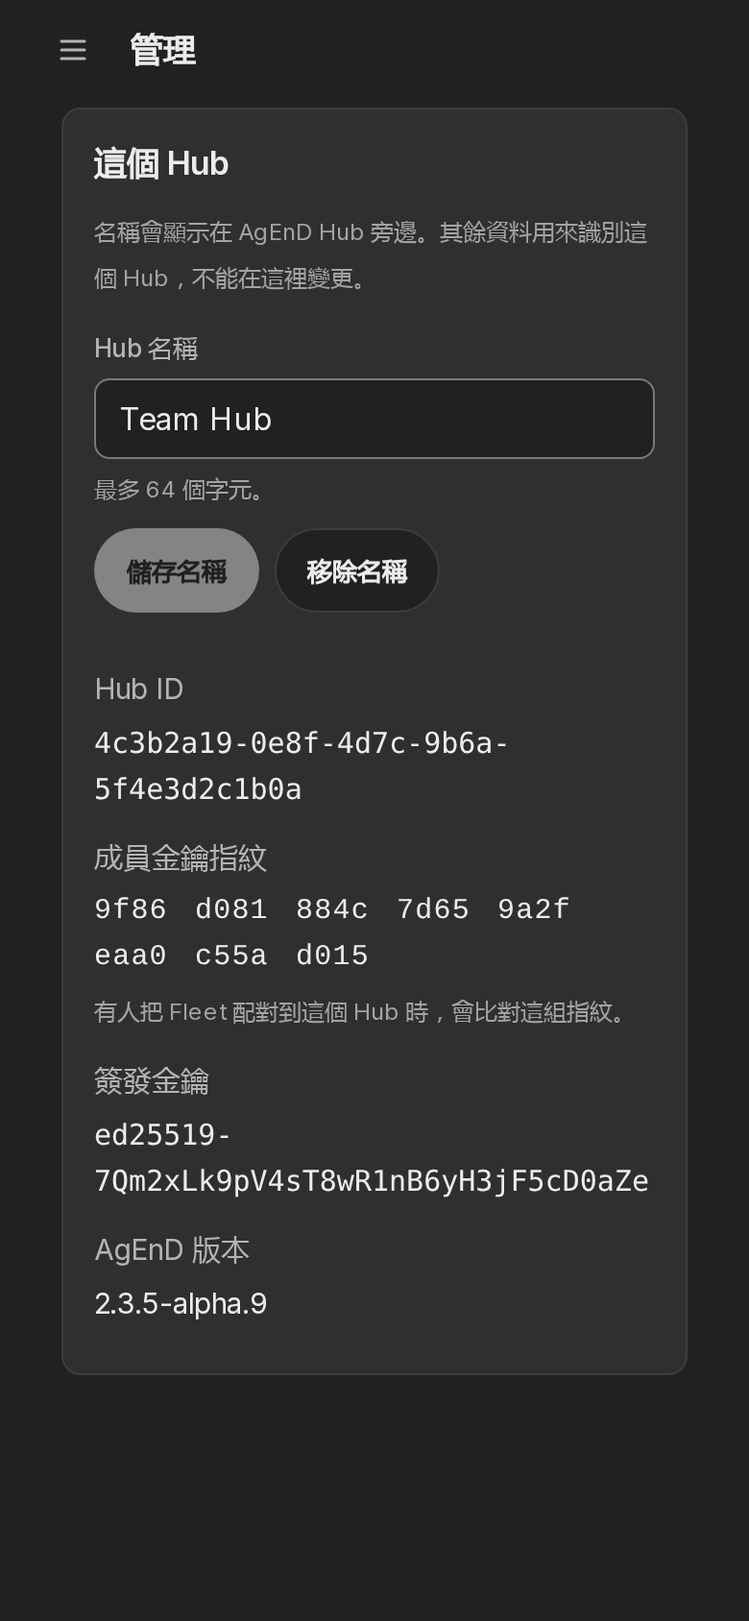
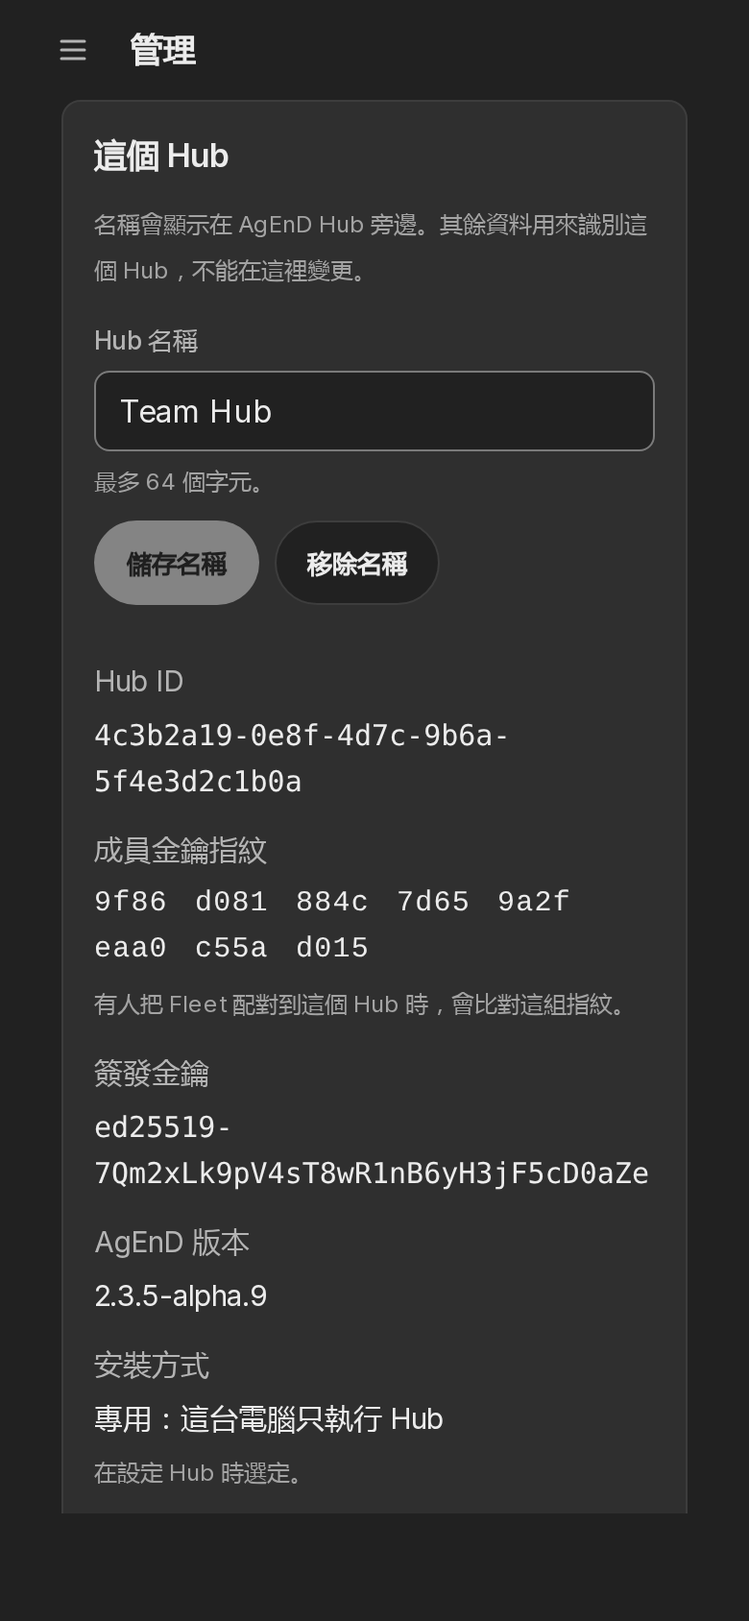
test(hub): the seven guards Fable found untested, and two fixes they exposed (#3426 F1, F2)
F1.1 the commit point's re-read (a change after staging → stale, staged files and journal gone): a pair that stopped
verifying there threw 'unavailable' and left a prepared journal; now it cancels like any stale.
F1.2 recover() refuses a changed staged manifest, writing nothing.
F1.3 a save that writes something else than the sealed change: the digest is compared before the pair is verified, so it
is 'recovery' (journal kept, no receipt), not 'unavailable'.
F1.4 settingsOf: an absent name mounts; '', padded, control characters or 65 characters hold with hub-unsealed.
F1.5 a session that is no longer current can't prepare (403 denied, the writer never asked).
F2.1 a local-admin continuation that isn't a confirmed replay is refused (preview and run routes).
F2.2 a sealed commit starting during the bind probe makes the save refuse (503 unsaved).
N1 the UI says what a 'recovery' answer means (don't retry; ask the host owner). N2 a refused commit adds a denied audit
row with its reason. Smoke: Run this Hub (stopping asks once; Cancel keeps it), This Hub shows how it was installed.

diff --git a/tests/hub-preview-settings-api-m2682.test.ts b/tests/hub-preview-settings-api-m2682.test.ts
@@ -8,7 +8,7 @@ import { EventEmitter } from "node:events";
 import { createServer } from "node:net";
 import type { IncomingMessage } from "node:http";
 import { handleSettingsRequest } from "../src/settings-api.js";
-import { createSettingsReplay } from "../src/settings-request-capability.js";
+import { cacheSettingsBody, createSettingsReplay } from "../src/settings-request-capability.js";
 import { SettingsExecution } from "../src/settings-transaction.js";
 import { bindGatewayRequest } from "../src/web-request-context.js";
 
@@ -19,16 +19,18 @@ const freePort = async () => { const s = createServer(); await new Promise<void>
 const hubRaw = () => ({ health_port: 19280, hub: { enabled: true, webOrigin: "https://hub.example.test:8444", memberOrigin: "https://hub.example.test:8443",
   webListen: { host: "127.0.0.1", port: 8444 }, memberListen: { host: "127.0.0.1", port: 8443 } } });
 
-async function call(o: { method?: string; replay?: boolean; admin?: boolean; gateway?: boolean; json?: unknown; raw?: any; busy?: boolean; localAdmin?: () => boolean } = {}) {
+async function call(o: { method?: string; replay?: boolean; continuation?: boolean; busySeq?: boolean[]; admin?: boolean; gateway?: boolean; json?: unknown; raw?: any; busy?: boolean; localAdmin?: () => boolean } = {}) {
   const body = Buffer.from(JSON.stringify(o.json ?? { enabled: false })), method = o.method ?? "PUT";
   const cap = new SettingsExecution({ current: () => true, snapshot: () => null }); caps.push(cap);
   const req = o.replay ? createSettingsReplay({ method, url: path, body, binding: "owner", localAdmin: o.localAdmin ?? (() => o.admin !== false) }, cap)
     : Object.assign(new EventEmitter(), { method, url: path, headers: o.admin === false ? { cookie: "__Host-agend_hub_fake=x" } : { "x-agend-token": "tok" } }) as unknown as IncomingMessage;
+  // A server-owned continuation with a local admin, but not a confirmed replay (Fable #3426 F2.1).
+  if (o.continuation) cacheSettingsBody(req, body, cap, "owner", () => true);
   if (o.gateway) bindGatewayRequest(req, { surface: "gateway", exposureId: "scratch", expectedOrigin: "https://scratch.invalid", isCurrent: () => true });
   let raw = o.raw ?? hubRaw();
   const saves: unknown[] = [];
   const ctx = { webToken: "tok", webSessions: null, fleetConfig: { defaults: {}, instances: {} }, logger: { warn: vi.fn() },
-    getRawFleetConfig: () => raw, hubSettingsBusy: () => o.busy === true,
+    getRawFleetConfig: () => raw, hubSettingsBusy: () => (o.busySeq ? o.busySeq.shift() ?? true : o.busy === true),
     saveFleetConfig: (patches: Array<{ path: string[]; value?: unknown; remove?: boolean }>) => {
       saves.push(patches);
       for (const p of patches) { const web = { ...(raw.hub.web ?? {}) }; if (p.remove) delete web.preview_port; else web.preview_port = p.value; raw = { ...raw, hub: { ...raw.hub, web } }; }
@@ -47,6 +49,10 @@ describe("host route: HTML previews on this Hub (M-2682)", () => {
     expect(await call({ method: "GET" })).toMatchObject({ status: 200, body: { ok: true, hosted: true, enabled: false, port: null, suggested: 8445 } });
     expect((await call({ method: "GET", admin: false })).status).toBe(403);
     expect((await call({ method: "GET", gateway: true })).status).toBe(403);
+  });
+  it("a local-admin continuation that isn't a confirmed replay is refused and saves nothing (Fable #3426 F2.1)", async () => {
+    const r = await call({ continuation: true, json: { enabled: false } });
+    expect([r.status, r.body.error, r.saves]).toEqual([403, "admin_confirmation_required", []]);
   });
   it("saves only as a confirmed replay; then writes exactly hub.web.preview_port", async () => {
     const port = await freePort();
@@ -67,6 +73,10 @@ describe("host route: HTML previews on this Hub (M-2682)", () => {
       const r = await call({ replay: true, json, ...extra });
       expect([r.status, r.body.error, r.saves]).toEqual([status, code, []]);
     }
+    // A sealed-settings commit starting while the bind probe ran: the re-check at the save refuses (Fable #3426 F2.2).
+    const port = await freePort();
+    const raced = await call({ replay: true, json: { enabled: true, port }, busySeq: [false, true] });
+    expect([raced.status, raced.body.error, raced.saves]).toEqual([503, "unsaved", []]);
     const localAdmin = vi.fn().mockReturnValueOnce(true).mockReturnValue(false);
     const r = await call({ replay: true, json: { enabled: false }, localAdmin });
     expect([r.status, r.body.error, r.saves]).toEqual([503, "unsaved", []]);

diff --git a/tests/hub-settings-commit-m2682.test.ts b/tests/hub-settings-commit-m2682.test.ts
@@ -83,8 +83,8 @@ describe("rename and clear, resealed", () => {
   });
 });
 
+const code = (f: () => unknown) => { try { f(); return "none"; } catch (e) { return (e as HubSettingsError).code; } };
 describe("refusals before the commit point leave everything as it was", () => {
-  const code = (f: () => unknown) => { try { f(); return "none"; } catch (e) { return (e as HubSettingsError).code; } };
   it("unchanged, expired, reused, another session or person, a session that ended", () => {
     const w = writer();
     expect(code(() => w.prepare({ kind: "rename", name: "AgEnD Hub pilot" }, actor()))).toBe("unchanged");
@@ -117,6 +117,22 @@ describe("refusals before the commit point leave everything as it was", () => {
     const a = w.prepare({ kind: "rename", name: "A" }, actor());
     expect(code(() => w.commit(a.ref, actor(), () => live))).toBe("stale");
     expect(hub.name).toBe("AgEnD Hub pilot"); expect(readFileSync(manifestPath(), "utf8")).toBe(initialManifest); expect(leftovers()).toEqual([false, 0]);
+  });
+  it("the commit point re-reads the pair: a change by another process after staging cancels it (Fable #3426 F1.1)", () => {
+    for (const change of [
+      () => writeFileSync(manifestPath(), initialManifest + " ", { mode: 0o600 }),           // the manifest
+      () => { hub.retention = { contentDays: 31, eventDays: 90 }; },                            // hub.* (the pair no longer verifies)
+    ]) {
+      const before = structuredClone(hub);
+      const w = writer({ step: (s) => { if (s === "staged") change(); } });
+      const a = w.prepare({ kind: "rename", name: "A" }, actor());
+      const manifestAtStage = () => readFileSync(manifestPath(), "utf8");
+      expect(code(() => w.commit(a.ref, actor(), () => true))).toBe("stale");
+      expect(leftovers()).toEqual([false, 0]);                    // staged files and journal gone: nothing waits on it
+      expect(hub.name).toBe("AgEnD Hub pilot");                   // nothing in force written by the writer
+      expect(manifestAtStage()).not.toContain('"planDigest": "' + hubPlanDigest({ ...before, name: "A" }));
+      writeFileSync(manifestPath(), initialManifest, { mode: 0o600 }); hub = before;
+    }
   });
   it("a sealed pair that doesn't verify is not renamed", () => {
     hub.name = "edited by hand";
@@ -166,6 +182,22 @@ describe("a crash at any step: recover() before the next mount leaves a coherent
     writeFileSync(manifestPath(), initialManifest + " ", { mode: 0o600 });
     expect(() => writer().recover()).toThrow(/manifest changed outside/);
     expect(readFileSync(manifestPath(), "utf8")).toBe(initialManifest + " ");
+  });
+  it("recover() refuses a staged manifest that changed: nothing written, the manifest in force unchanged (Fable #3426 F1.2)", () => {
+    const crash = writer({ step: (s) => { if (s === "committed") throw new Error("crash"); } });
+    expect(() => crash.commit(crash.prepare({ kind: "rename", name: "After" }, actor()).ref, actor(), () => true)).toThrow("crash");
+    const dir = join(home, "hub/settings-staged"), staged = readdirSync(dir).find((f) => f.endsWith(".manifest.json"))!;
+    writeFileSync(join(dir, staged), readFileSync(join(dir, staged), "utf8").replace('"v": 1', '"v": 1 '), { mode: 0o600 });
+    expect(() => writer().recover()).toThrow(expect.objectContaining({ code: "recovery" }));
+    expect(readFileSync(manifestPath(), "utf8")).toBe(initialManifest);
+    expect(hub.name).toBe("AgEnD Hub pilot");
+    expect(writer().pending()).toBe(true);
+  });
+  it("a save that writes something else than the sealed change is caught: recovery, journal kept, no receipt (Fable #3426 F1.3)", () => {
+    const w = writer({ saveHub: (patches) => { for (const p of patches) if (!p.remove) hub[p.path[1]!] = p.value; hub.coexistence = "same-user-pilot"; } });
+    expect(() => w.commit(w.prepare({ kind: "rename", name: "After" }, actor()).ref, actor(), () => true)).toThrow(expect.objectContaining({ code: "recovery" }));
+    expect(JSON.parse(readFileSync(join(home, SETTINGS_JOURNAL), "utf8")).phase).toBe("committed");
+    expect(existsSync(join(home, "hub/settings-receipts"))).toBe(false);
   });
   it("a second commit waits while one is unfinished", () => {
     const crash = writer({ step: (s) => { if (s === "committed") throw new Error("crash"); } });

diff --git a/tests/hub-settings-guards-m2682.test.ts b/tests/hub-settings-guards-m2682.test.ts
@@ -1,0 +1,47 @@
+/**
+ * M-2682 (Fable #3426 F1.4, F1.5): two guards around the sealed-settings writer, each pinned on its own.
+ * - The mount's parse of hub.* (settingsOf): an absent name mounts (the plain brand); a present one must pass the
+ *   initializer's rule, or the Hub refuses with hub-unsealed.
+ * - Administration → This Hub's admin gate: a session that is no longer current can't even prepare (the writer itself
+ *   checks current() only at commit).
+ */
+import { describe, expect, it } from "vitest";
+import { settingsOf } from "../src/hub/compose/server.js";
+import { handleHubSettingsHttp, type HubSettingsHttpRequest } from "../src/hub/settings-api.js";
+import type { HubSettingsWriter } from "../src/hub/settings-commit.js";
+
+const block = (over: Record<string, unknown> = {}) => ({ hubId: "4c3b2a19-0e8f-4d7c-9b6a-5f4e3d2c1b0a", name: "Team Hub", webOrigin: "https://hub.example.test", memberOrigin: "https://hub.example.test:8443",
+  webListen: { host: "127.0.0.1", port: 8444 }, memberListen: { host: "127.0.0.1", port: 8443 },
+  webTls: { certificateFile: "hub/web-tls/cert.pem", keyFile: "hub/web-tls/key.pem" }, administrator: { realm: "corp", objectId: "0f1e2d3c-4b5a-4968-8776-655443322110" },
+  retention: { contentDays: 30, eventDays: 90 }, directory: { realm: "corp", url: "ldaps://dc.example.test", baseDn: "DC=example,DC=test", bindPasswordRef: "agend-hub-secret:bind" }, ...over });
+
+describe("settingsOf: hub.name (F1.4)", () => {
+  it("an absent name mounts as no name; a valid one as itself", () => {
+    const { name: _, ...absent } = block();
+    expect(settingsOf(absent).name).toBe("");
+    expect(settingsOf(block({ name: "Ops" })).name).toBe("Ops");
+    expect(settingsOf(block({ name: "x".repeat(64) })).name).toHaveLength(64);
+  });
+  it("a present name that the initializer would refuse holds the Hub (hub-unsealed)", () => {
+    for (const name of ["", " Padded ", "a\u0007b", "x".repeat(65), 7, null]) {
+      expect(() => settingsOf(block({ name }))).toThrow(expect.objectContaining({ code: "hub-unsealed" }));
+    }
+  });
+});
+
+describe("This Hub: a session that is no longer current can't prepare (F1.5)", () => {
+  it("prepare answers 403 denied and the writer is never asked", async () => {
+    const asked: string[] = [];
+    const writer = { prepare() { asked.push("prepare"); return { ref: "r", summary: { field: "name", from: null, to: "x" }, expiresAt: 1 }; },
+      commit() { asked.push("commit"); throw new Error("no"); }, recover() {}, pending: () => false } as unknown as HubSettingsWriter;
+    let sent: [number, unknown] | null = null;
+    const q = (current: boolean): HubSettingsHttpRequest => ({ path: "/hub/v1/admin/hub/name/prepare", method: "POST",
+      ctx: { requestId: "r1", current: () => current, requireAdmin: async () => ({ kind: "directory", person: { realm: "corp", objectId: "0f1e2d3c-4b5a-4968-8776-655443322110" }, sessionId: "s1" }) },
+      signedIn: () => true, csrf: () => true, body: async () => ({ name: "Ops" }), send: (status, body) => { sent = [status, body]; }, audit: () => {} });
+    await handleHubSettingsHttp({ info: { hubId: "h", memberSpkiSha256: "a".repeat(64), issuerKeyId: "k", version: null }, name: "Team Hub", writer }, q(false));
+    expect(sent).toEqual([403, { ok: false, code: "denied" }]);
+    expect(asked).toEqual([]);
+    await handleHubSettingsHttp({ info: { hubId: "h", memberSpkiSha256: "a".repeat(64), issuerKeyId: "k", version: null }, name: "Team Hub", writer }, q(true));
+    expect(sent![0]).toBe(200); expect(asked).toEqual(["prepare"]);
+  });
+});

diff --git a/tests/hub-run-settings-m2682.test.ts b/tests/hub-run-settings-m2682.test.ts
@@ -9,7 +9,7 @@ import { EventEmitter } from "node:events";
 import type { IncomingMessage } from "node:http";
 import { hubRunPatch, hubRunView } from "../src/hub-host-settings.js";
 import { handleSettingsRequest } from "../src/settings-api.js";
-import { createSettingsReplay } from "../src/settings-request-capability.js";
+import { cacheSettingsBody, createSettingsReplay } from "../src/settings-request-capability.js";
 import { SettingsExecution } from "../src/settings-transaction.js";
 import { bindGatewayRequest } from "../src/web-request-context.js";
 
@@ -18,16 +18,18 @@ const caps: SettingsExecution[] = [];
 afterEach(() => { for (const cap of caps.splice(0)) cap.close(); });
 const hubRaw = (enabled = true) => ({ hub: { enabled, hubId: "4c3b2a19-0e8f-4d7c-9b6a-5f4e3d2c1b0a" } });
 
-async function call(o: { method?: string; replay?: boolean; admin?: boolean; gateway?: boolean; json?: unknown; raw?: any; busy?: boolean; localAdmin?: () => boolean } = {}) {
+async function call(o: { method?: string; replay?: boolean; continuation?: boolean; busySeq?: boolean[]; admin?: boolean; gateway?: boolean; json?: unknown; raw?: any; busy?: boolean; localAdmin?: () => boolean } = {}) {
   const body = Buffer.from(JSON.stringify(o.json ?? { enabled: false })), method = o.method ?? "PUT";
   const cap = new SettingsExecution({ current: () => true, snapshot: () => null }); caps.push(cap);
   const req = o.replay ? createSettingsReplay({ method, url: path, body, binding: "owner", localAdmin: o.localAdmin ?? (() => o.admin !== false) }, cap)
     : Object.assign(new EventEmitter(), { method, url: path, headers: o.admin === false ? { cookie: "__Host-agend_hub_fake=x" } : { "x-agend-token": "tok" } }) as unknown as IncomingMessage;
+  // A server-owned continuation with a local admin, but not a confirmed replay (Fable #3426 F2.1).
+  if (o.continuation) cacheSettingsBody(req, body, cap, "owner", () => true);
   if (o.gateway) bindGatewayRequest(req, { surface: "gateway", exposureId: "scratch", expectedOrigin: "https://scratch.invalid", isCurrent: () => true });
   let raw = o.raw ?? hubRaw();
   const saves: unknown[] = [];
   const ctx = { webToken: "tok", webSessions: null, fleetConfig: { defaults: {}, instances: {} }, logger: { warn: vi.fn() },
-    getRawFleetConfig: () => raw, hubSettingsBusy: () => o.busy === true,
+    getRawFleetConfig: () => raw, hubSettingsBusy: () => (o.busySeq ? o.busySeq.shift() ?? true : o.busy === true),
     saveFleetConfig: (patches: Array<{ path: string[]; value?: unknown }>) => { saves.push(patches); for (const p of patches) raw = { ...raw, hub: { ...raw.hub, enabled: p.value } }; } };
   const response = await new Promise<{ status: number; body: any }>((resolve) => {
     let status = 0;
@@ -54,6 +56,10 @@ describe("Run this Hub (M-2682)", () => {
     expect(await call({ method: "GET" })).toMatchObject({ status: 200, body: { ok: true, initialized: true, enabled: true } });
     expect((await call({ method: "GET", admin: false })).status).toBe(403);
     expect((await call({ method: "GET", gateway: true })).status).toBe(403);
+  });
+  it("a local-admin continuation that isn't a confirmed replay is refused and saves nothing", async () => {
+    const r = await call({ continuation: true, json: { enabled: false } });
+    expect([r.status, r.body.error, r.saves]).toEqual([403, "admin_confirmation_required", []]);
   });
   it("saves only as a confirmed replay, exactly hub.enabled", async () => {
     for (const options of [{}, { replay: true, admin: false }, { replay: true, gateway: true }]) {

diff --git a/src/hub/settings-commit.ts b/src/hub/settings-commit.ts
@@ -193,16 +193,21 @@ export function createHubSettingsWriter(deps: HubSettingsWriterDeps): HubSetting
       writeJournal(journal); step("staged");
 
       // The commit point: the image is still the one prepared, and the person and session still hold.
-      const again = image();
-      if (again.digest !== p.oldDigest || again.manifestSha !== p.manifestSha || !current()) { cleanup(id); throw new HubSettingsError("stale"); }
+      // Any refusal here (the pair changed, stopped verifying, or the session ended) cancels: the staged files go, nothing in
+      // force was touched, and no journal is left to make the next commit wait.
+      let again: ReturnType<typeof image> | null = null;
+      try { again = image(); } catch { /* the pair no longer verifies: as stale */ }
+      if (!again || again.digest !== p.oldDigest || again.manifestSha !== p.manifestSha || !current()) { cleanup(id); throw new HubSettingsError("stale"); }
       writeJournal({ ...journal, phase: "committed" }); step("committed");
 
       // Past the commit point a failure leaves the journal committed: the next Hub apply calls recover() first, which
       // finishes the change (or refuses, overwriting nothing). Until then the running Hub keeps its mounted settings.
       writePrivate("hub", MANIFEST, manifestText); step("manifest");
       deps.saveHub(namePatch(name)); step("config");
-      const done = image();
-      if (done.digest !== p.newDigest) throw new HubSettingsError("recovery", "the saved settings differ from the sealed ones");
+      // What was saved must be exactly what was sealed, and the pair must verify; anything else past the commit point is a
+      // recovery (the journal stays committed; recover() then finishes it or refuses, overwriting nothing).
+      if (hubPlanDigest(obj(deps.readHub())) !== p.newDigest) throw new HubSettingsError("recovery", "the saved settings differ from the sealed ones");
+      try { image(); } catch { throw new HubSettingsError("recovery", "the new pair does not verify"); }
       finish({ ...journal, phase: "committed" });
       return { receiptId: id, summary: { field: "name", from, to: name } };
     },

diff --git a/src/hub/settings-api.ts b/src/hub/settings-api.ts
@@ -25,7 +25,7 @@ export interface HubSettingsHttpRequest {
   signedIn(): unknown; csrf(): unknown; body(): Promise<Record<string, unknown>>;
   send(status: number, body: unknown): void;
   /** Synchronous audit append (its own transaction); throws when it can't be recorded. */
-  audit(event: { requestId: string; actor: Extract<HubActor, { kind: "directory" }>; action: string; result: "held" | "completed"; reasonCode?: string }): void;
+  audit(event: { requestId: string; actor: Extract<HubActor, { kind: "directory" }>; action: string; result: "held" | "completed" | "denied"; reasonCode?: string }): void;
 }
 const STATUS: Record<string, number> = { invalid: 400, unchanged: 409, stale: 409, expired: 409, busy: 409, denied: 403, unavailable: 503, recovery: 503 };
 
@@ -64,7 +64,13 @@ export async function handleHubSettingsHttp(deps: HubSettingsHttpDeps | undefine
     if (typeof body.ref !== "string") throw new HubSettingsError("invalid");
     // No await from here: the audit, the commit and its record run as one synchronous step.
     q.audit({ requestId: q.ctx.requestId, actor, action: "hub.settings.rename", result: "held" });
-    const done = deps.writer.commit(body.ref, who, () => q.ctx.current());
+    let done: ReturnType<HubSettingsWriter["commit"]>;
+    try { done = deps.writer.commit(body.ref, who, () => q.ctx.current()); }
+    catch (e) {
+      // The attempt's outcome beside its held record (Fable #3426 N2): why it didn't commit. Best effort, as the completed record.
+      if (e instanceof HubSettingsError) try { q.audit({ requestId: q.ctx.requestId, actor, action: "hub.settings.rename", result: "denied", reasonCode: e.code }); } catch { /* the held record remains */ }
+      throw e;
+    }
     // The rename is committed and its receipt kept; a failure to add this second record doesn't undo it.
     try { q.audit({ requestId: q.ctx.requestId, actor, action: "hub.settings.rename", result: "completed", reasonCode: done.receiptId }); } catch { /* the held record and the receipt remain */ }
     q.send(200, { ok: true, summary: done.summary });

diff --git a/src/ui/hub-this-hub.js b/src/ui/hub-this-hub.js
@@ -27,6 +27,7 @@ register("hubThisHub", {
     err_busy: "Another change to the Hub's settings is still finishing. Try again in a moment.",
     err_denied: "Only this Hub's administrator can rename it. Sign in again and retry.",
     err_unavailable: "The Hub's settings can't be changed right now: its sealed settings don't check out. Ask the host owner to look at the Hub.",
+    err_recovery: "The rename didn't finish cleanly, and the Hub may stop until it is put right. Don't retry: ask the host owner to check the Hub on its computer.",
     err_failed: "The name wasn't saved. Try again.",
   },
   "zh-TW": {
@@ -45,12 +46,13 @@ register("hubThisHub", {
     err_busy: "Hub 設定的另一項變更還在完成中，請稍後再試。",
     err_denied: "只有這個 Hub 的管理員可以改名。請重新登入後再試。",
     err_unavailable: "目前無法變更 Hub 的設定：它的密封設定檢查不通過。請主機擁有者檢查 Hub。",
+    err_recovery: "改名沒有順利完成，Hub 可能會停止，直到問題排除。請不要重試，請主機擁有者在那台電腦上檢查 Hub。",
     err_failed: "名稱沒有儲存，請再試一次。",
   },
 });
 const ht = (k, ...a) => t(`hubThisHub.${k}`, ...a);
 const INSTALL = new Set(["dedicated", "same-user-pilot"]);
-const ERR = new Set(["invalid", "unchanged", "stale", "expired", "busy", "denied", "unavailable"]);
+const ERR = new Set(["invalid", "unchanged", "stale", "expired", "busy", "denied", "unavailable", "recovery"]);
 const errText = (r) => ht(`err_${ERR.has(r.code) ? r.code : "failed"}`);
 
 /** After a rename the Hub reloads itself; wait until it answers with the new name, then reload this page (its brand). */

diff --git a/tests/hub-settings-api-m2682.test.ts b/tests/hub-settings-api-m2682.test.ts
@@ -61,8 +61,11 @@ describe("Administration → This Hub", () => {
     expect(seen).toEqual([]);
     for (const [code, status] of [["stale", 409], ["denied", 403], ["unavailable", 503], ["invalid", 400]] as const) {
       refuse = code;
+      const before = rig.audits.length;
       const r = await rig.call(admin, "POST", "/hub/v1/admin/hub/name/commit", { ref: "ref-1" });
       expect([r.status, r.json]).toEqual([status, { ok: false, code }]);
+      // the attempt's outcome beside its held record (Fable #3426 N2)
+      expect(rig.audits.slice(before).filter((a: any) => a.action === "hub.settings.rename").map((a: any) => [a.result, a.reasonCode ?? null])).toEqual([["held", null], ["denied", code]]);
     }
     expect((await rig.call(admin, "GET", "/hub/v1/admin/hub/name/commit")).status).toBe(405);
   });

diff --git a/src/hub/compose/server.ts b/src/hub/compose/server.ts
@@ -139,7 +139,8 @@ const listen = (v: unknown, label: string) => {
   return { host: o.host, port: o.port as number };
 };
 
-function settingsOf(cfg: Record<string, unknown>): ServerSettings {
+/** The mount's parse of the hub.* block (exported for its tests). */
+export function settingsOf(cfg: Record<string, unknown>): ServerSettings {
   const tls = obj(cfg.webTls);
   const admin = obj(cfg.administrator);
   const retention = obj(cfg.retention);

diff --git a/changes/3426.md b/changes/3426.md
@@ -3,3 +3,4 @@ section: Added
 ---
 - **Rename the Hub from Hub Administration (#3426).** The Hub's administrator can change or remove the Hub's name on Administration → This Hub. Before, the name could only be changed in the host's configuration, and editing it there stopped the Hub. The Hub reseals its own settings and reloads with the new name. The same card shows the Hub ID, the member key fingerprint people compare when they pair a fleet, the issuer key and the AgEnD version.
 - **Turn on HTML previews for a Hub from Settings (#3426).** On a fleet that runs a Hub, Settings → Hub → HTML previews on this Hub switches the Hub's preview listener on or off and sets its port. The port is checked against the Hub's and the fleet's own ports and must be free; previously this needed an edit to the host's configuration.
+- **Start or stop a Hub from Settings (#3426).** On a fleet that runs a Hub, Settings → Hub → Run this Hub turns the Hub on or off. Stopping it asks once first, because everyone is signed out of it; nothing is deleted. Hub Administration → This Hub also shows how the Hub was installed.

diff --git a/changes/3426.zh-TW.md b/changes/3426.zh-TW.md
@@ -3,3 +3,4 @@ section: Added
 ---
 - **在 Hub 管理頁改 Hub 名稱（#3426）。** Hub 管理員可以在「管理 → 這個 Hub」變更或移除 Hub 的名稱。以前只能改主機上的設定，而在那裡修改會讓 Hub 停下來。現在 Hub 會用自己的金鑰重新密封設定，並以新名稱重新載入。同一張卡片也會顯示 Hub ID、配對 Fleet 時比對的成員金鑰指紋、簽發金鑰和 AgEnD 版本。
 - **在設定中開啟 Hub 的 HTML 預覽（#3426）。** 執行 Hub 的 Fleet 可以在「設定 → Hub → 這個 Hub 的 HTML 預覽」開關 Hub 的預覽並設定連接埠。連接埠會先檢查不能和 Hub 或 Fleet 自己的連接埠重複，而且必須沒有被占用；以前要改主機上的設定。
+- **在設定中啟動或停止 Hub（#3426）。** 執行 Hub 的 Fleet 可以在「設定 → Hub → 執行這個 Hub」開啟或關閉 Hub。停止前會先詢問一次，因為所有人都會被登出；不會刪除任何資料。「Hub 管理 → 這個 Hub」也會顯示 Hub 的安裝方式。
